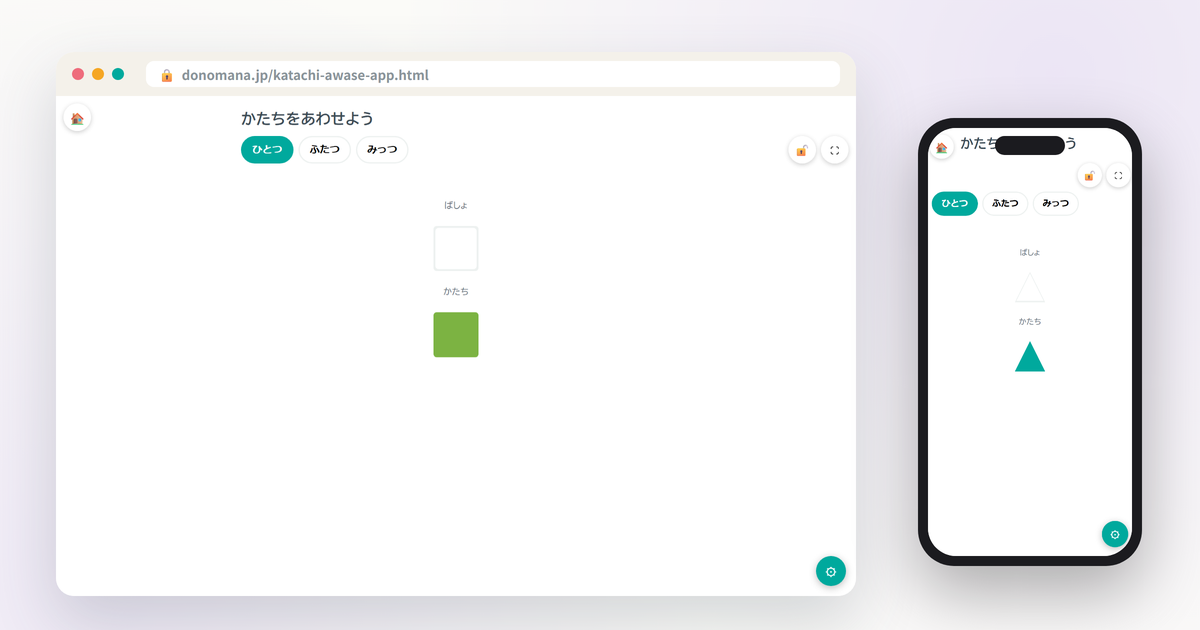
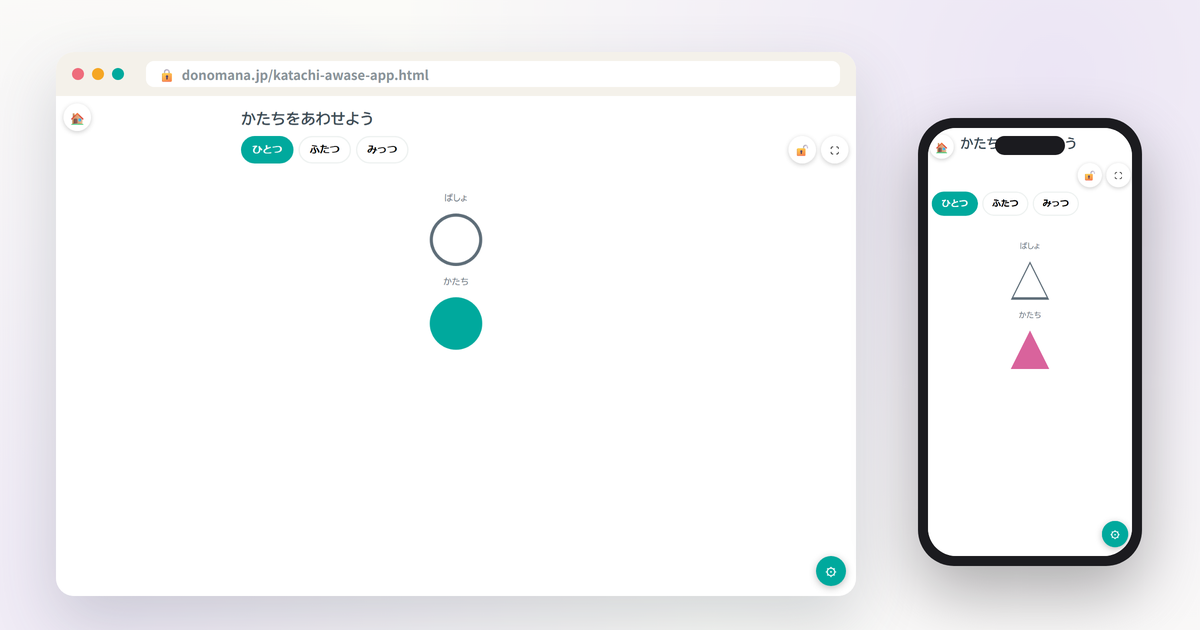
chore(katachi-awase): update preview and release notes
Regenerates the index-card mockup (scoped to katachi-awase-app only,
via `python tools/make-mockups.py katachi-awase-app`) to reflect Phase26-D6's
larger shapes and visible target outlines — the previous mockup predates
that change and showed the old thin, low-contrast borders. Icon output
is byte-identical (deterministic from iconColor, unaffected by the app's
own visual changes) so only the mockup PNG differs.

Adds one MANUAL_CHANGELOG line for 2026-08-12 covering this
improvement. Per the Changelog Simplicity Rule (1 app = 1 detail item),
this does not add a new changelog entry: katachi-awase-app already has
a same-day release item from its original publish, and
generateChangelog()'s per-app aggregation merges the two automatically
("を公開しました" -> "を公開し、改善しました"), leaving 2026-08-12's
semantic count unchanged at 6件 and 2026年8月's month total unchanged at
11件. No technical detail (border width, selectedShapeId, candidate
scope, etc.) appears in the user-facing text.

diff --git a/index.html b/index.html
@@ -2139,7 +2139,7 @@
 
 <script>
 const CHANGELOG = [
-  { date: "2026年8月12日", type: "new", text: "新しい教材を2つ追加し、いくつかの教材を改善しました", details: ["「おおきい？ちいさい？くらべよう」を公開し、改善しました","「かたちをあわせよう」を公開しました","「なぞり書き練習ツール」を改善しました","「視線キーボード」を改善しました","「ひらがな まなぼう！」を改善しました","「すうじ まなぼう！」を改善しました"], updateCount: 6 },
+  { date: "2026年8月12日", type: "new", text: "新しい教材を2つ追加し、いくつかの教材を改善しました", details: ["「おおきい？ちいさい？くらべよう」を公開し、改善しました","「かたちをあわせよう」を公開し、改善しました","「なぞり書き練習ツール」を改善しました","「視線キーボード」を改善しました","「ひらがな まなぼう！」を改善しました","「すうじ まなぼう！」を改善しました"], updateCount: 6 },
   { date: "2026年8月11日", type: "update", text: "いくつかの教材を改善しました", details: ["「すごろく」を改善しました","「おんがくあそび」を改善しました"], updateCount: 2 },
   { date: "2026年8月8日", type: "design", text: "トップページや教材紹介ページを、さらに使いやすく改善しました。", updateCount: 1 },
   { date: "2026年8月7日", type: "update", text: "アクセシビリティと操作性を大幅に改善しました。", updateCount: 1 },

diff --git a/generate.js b/generate.js
@@ -1620,6 +1620,7 @@ const MANUAL_CHANGELOG = [
     "「おおきい？ちいさい？くらべよう」で、どの問題で間違えたかを記録から確認できるようにし、記録をCSVで書き出せるようにしました。",
     "「おおきい？ちいさい？くらべよう」で、スマートフォンなどの小さな画面でも、大きさや長さの違いがより分かりやすく表示されるよう改善しました。",
     "「おおきい？ちいさい？くらべよう」の学習記録で、『くわしく見る』を押したときに、選んだ記録とは別の内容が表示されることがある問題を修正しました。",
+    "「かたちをあわせよう」の見やすさと操作性を改善しました。",
   ] },
   { date: "2026-08-11", type: "update", text: "各アプリの不具合をまとめて修正しました。", details: [
     "「すごろく」スイッチ操作でスキャンをオフにした直後に、選んだボタンのハイライトが消えずに残ってしまうことがある問題を修正しました。",
